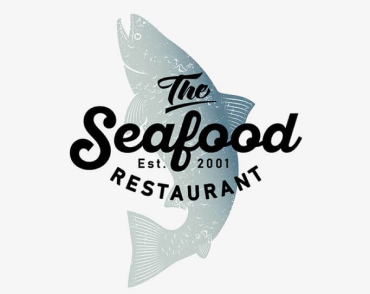
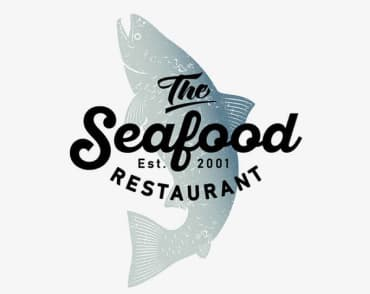
Декоративные элементы и иконки страницы
Оптемизировал все изображения
Начал оформлять секцию наща команда

diff --git a/index.html b/index.html
@@ -107,6 +107,91 @@
                 </ul>
             </section>
         </div>
+
+        <!--контейнер наша команда-->
+        <div class="conteiner-our-team">
+            <!--секция наша команда-->
+            <section class="our-team">
+                <!--оглавление секции-->
+                <h2 class="header-our-team"></h2>
+                <!--список наша команда-->
+                <ul class="list-our-team">
+                    <!--элемент списка-->
+                    <li class="item-list-our-team">
+                        <figure class="card">
+                            <a href="">
+                                <img src="./img/main/our_team/igor_demyanko.jpg" alt="Игорь демяненко">
+                                <figcaption class="card-caption">
+                                    <h3 class="card-header">Игорь Демьяненко</h3>
+                                    <p class="card-text">Product Designer</p>
+                                </figcaption>
+                            </a>
+                            <div class="card-social-icon">
+                                <a href="" class="social-icon"></a>
+                                <a href="" class="social-icon"></a>
+                                <a href="" class="social-icon"></a>
+                                <a href="" class="social-icon"></a>
+                            </div>
+                        </figure>
+
+                    </li>
+
+                    <li class="item-list-our-team">
+                        <figure class="card">
+                            <a href="">
+                                <img src="./img/main/our_team/olga_repina.jpg" alt="ольга репина">
+                                <figcaption class="card-caption">
+                                    <h3 class="card-header">Ольга Репина</h3>
+                                    <p class="card-text">Frontend Developer</p>
+                                </figcaption>
+                            </a>
+                            <div class="card-social-icon">
+                                <a href="" class="social-icon"></a>
+                                <a href="" class="social-icon"></a>
+                                <a href="" class="social-icon"></a>
+                                <a href="" class="social-icon"></a>
+                            </div>
+                        </figure>
+                    </li>
+
+                    <li class="item-list-our-team">
+                        <figure class="card">
+                            <a href="">
+                                <img src="./img/main/our_team/nikolay_tarasov.jpg" alt="николай тарасов">
+                                <figcaption class="card-caption">
+                                    <h3 class="card-header">Николай Тарасов</h3>
+                                    <p class="card-text">Marketing</p>
+                                </figcaption>
+                            </a>
+                            <div class="card-social-icon">
+                                <a href="" class="social-icon"></a>
+                                <a href="" class="social-icon"></a>
+                                <a href="" class="social-icon"></a>
+                                <a href="" class="social-icon"></a>
+                            </div>
+                        </figure>
+                    </li>
+
+                    <li class="item-list-our-team">
+                        <figure class="card">
+                            <a href="">
+                                <img src="./img/main/our_team/mihail_ermakov.jpg" alt="михаил ермаков">
+                                <figcaption class="card-caption">
+                                    <h3 class="card-header">Михаил Ермаков</h3>
+                                    <p class="card-text">UI Designer</p>
+                                </figcaption>
+                            </a>
+                            <div class="card-social-icon">
+                                <a href="" class="social-icon"></a>
+                                <a href="" class="social-icon"></a>
+                                <a href="" class="social-icon"></a>
+                                <a href="" class="social-icon"></a>
+                            </div>
+                        </figure>
+                    </li>
+                </ul>
+            </section>
+        </div>
      </main>
 
      <!-- подвал -->

diff --git a/css/styles.css b/css/styles.css
@@ -21,8 +21,12 @@
     --reature-head-color: #212121;
 
     /*чем мы занимаемся*/
-    --wedo-head-color: #212121;
+    --head-color: #212121;
     --item-bgcolor: #757575;
+    
+    /*наша команда*/
+    --bgcolor-section-our-team: #F5F4FA;
+    --head-color: #212121;
 }
 /*===============================*/
 
@@ -336,7 +340,7 @@ a {
     text-align: center;
     letter-spacing: 0.03em;
 
-    color: var(--wedo-head-color);
+    color: var(--head-color);
 }
 /*список секции*/
 .wedo-list {
@@ -354,6 +358,38 @@ a {
     width: 370px;
     height: 294px;
     background-color: var(--item-bgcolor);
+}
+
+/*===наша команда===*/
+
+/*контейнер наша команда*/
+.conteiner-our-team {
+}
+/*секция наша команда*/
+.our-team {
+}
+/*оглавление секции*/
+.header-our-team {
+}
+/*список наша команда*/
+.list-our-team {
+}
+/*элемент списка*/
+.item-list-our-team {
+}
+/*карточка*/
+.card {
+}
+.card-caption {
+}
+.card-header {
+}
+.card-text {
+}
+/*иконки карточке соц. ситей*/
+.card-social-icon {
+}
+.social-icon {
 }
 
 /*=========================*/
